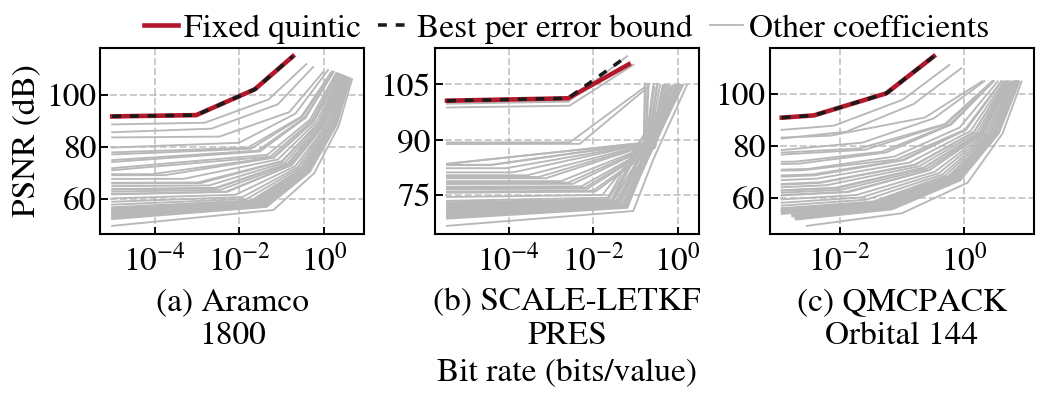
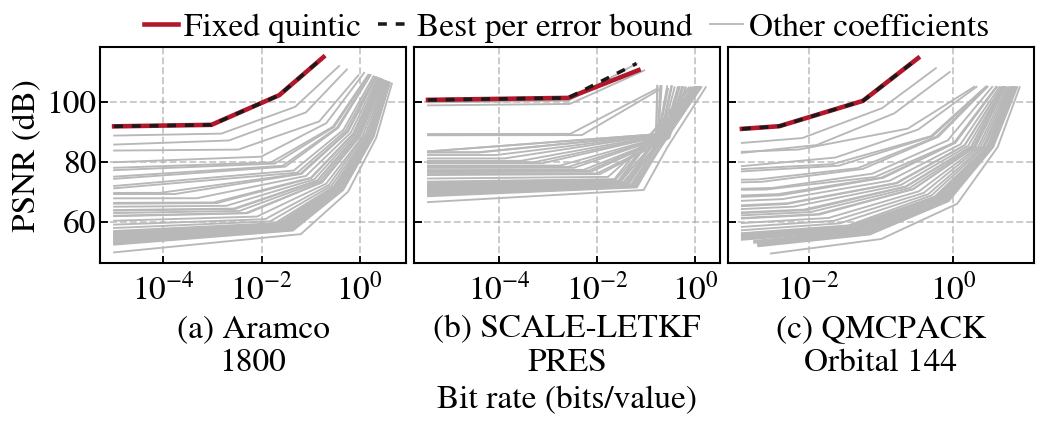
Share the Figure 9 PSNR axis

diff --git a/plot_predictor_rd.py b/plot_predictor_rd.py
@@ -9,7 +9,7 @@ from matplotlib.lines import Line2D
 from matplotlib.ticker import LogLocator,MaxNLocator,NullLocator
 
 from paper_plot_layout import PANEL_ASPECT,add_panel_footers,place_legend_above_axes,style_plot_axis
-from paperfig import PANEL_GAP_WITHOUT_Y_DECORATION_PT,PANEL_GAP_WITH_YTICKS_PT,PaperFigureSpec,add_panel_captions,add_shared_xlabel,apply_paper_style,layout_panel_grid,layout_panel_row,legend_above,legend_spacing_kwargs,panel_aspect_ratios,save_paper_png_vertical_crop,style_plot_axis as style_paper_axis
+from paperfig import PANEL_GAP_WITHOUT_Y_DECORATION_PT,PaperFigureSpec,add_panel_captions,add_shared_xlabel,apply_paper_style,layout_panel_grid,layout_panel_row,legend_above,legend_spacing_kwargs,panel_aspect_ratios,save_paper_png_vertical_crop,style_plot_axis as style_paper_axis
 
 project_root=Path(__file__).resolve().parent
 family_styles=((0,(3,2)),(0,(1.5,1)),(0,(3,1.5,.75,1)))
@@ -162,7 +162,7 @@ def render_coefficient_figure(output_png):
     coefficient_styles={"quintic":{"color":"#b2182b","linewidth":1.1,"linestyle":"-"},"other":{"color":".72","linewidth":.45,"linestyle":"-"}}
     apply_paper_style()
     paper_spec=PaperFigureSpec.column()
-    figure,axes=plt.subplots(1,3,figsize=paper_spec.size_in,dpi=paper_spec.dpi,sharey=False)
+    figure,axes=plt.subplots(1,3,figsize=paper_spec.size_in,dpi=paper_spec.dpi,sharey=True)
     for axis,key in zip(axes,selected):
         dataset_rows=[row for row in rows if row["dataset"]==key]
         curves=defaultdict(list)
@@ -181,11 +181,12 @@ def render_coefficient_figure(output_png):
         axis.xaxis.set_major_locator(LogLocator(base=10,numticks=3))
         axis.xaxis.set_minor_locator(NullLocator())
         axis.yaxis.set_major_locator(MaxNLocator(nbins=4))
+        hide_outside_x_tick_labels(axis)
         style_paper_axis(axis)
         axis.grid(True,color="#9e9e9e",linestyle="--",linewidth=.45,alpha=.55)
         axis.set_axisbelow(True)
     axes[0].set_ylabel("PSNR (dB)")
-    layout_panel_row(figure,axes,panel_aspect_ratios(1,1,1),bottom_pt=52,panel_gap_pt=PANEL_GAP_WITH_YTICKS_PT,left_edge_gap_pt=3,right_edge_gap_pt=3)
+    layout_panel_row(figure,axes,panel_aspect_ratios(1,1,1),bottom_pt=52,panel_gap_pt=PANEL_GAP_WITHOUT_Y_DECORATION_PT,left_edge_gap_pt=3,right_edge_gap_pt=3)
     handles=[Line2D([],[],label="Fixed quintic",**coefficient_styles["quintic"]),Line2D([],[],label="Best per error bound",color=".1",linewidth=.85,linestyle=(0,(2.5,2.5))),Line2D([],[],label="Other coefficients",**coefficient_styles["other"])]
     legend_above(axes[1],handles=handles,ncol=3,frameon=False,gap_pt=1,row_gap_pt=1,**legend_spacing_kwargs(8,column_gap_pt=4))
     captions=add_panel_captions(figure,axes,["(a) Aramco\n1800","(b) SCALE-LETKF\nPRES","(c) QMCPACK\nOrbital 144"],gap_pt=2,source="ticks")
